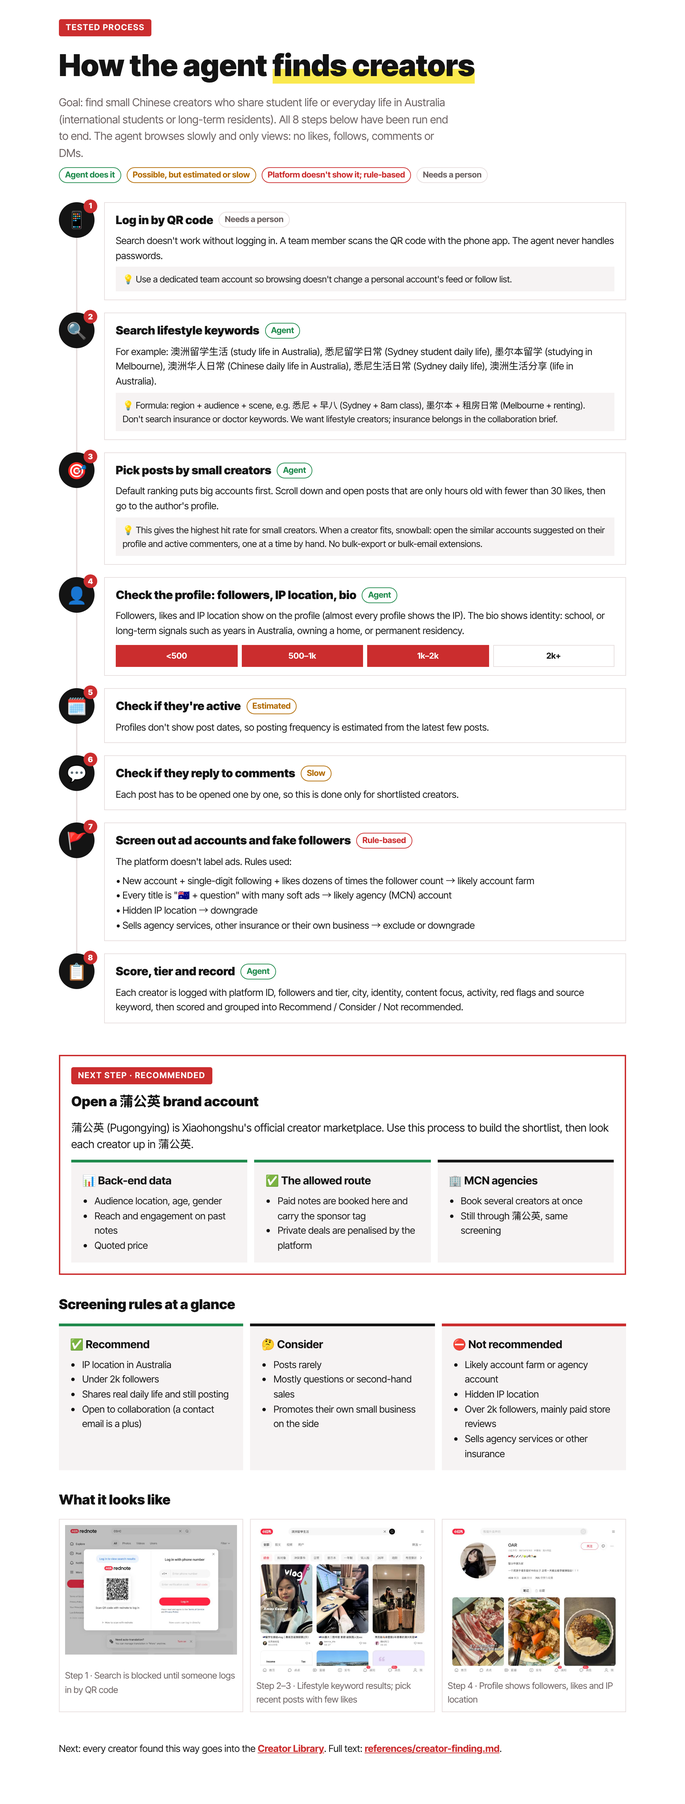
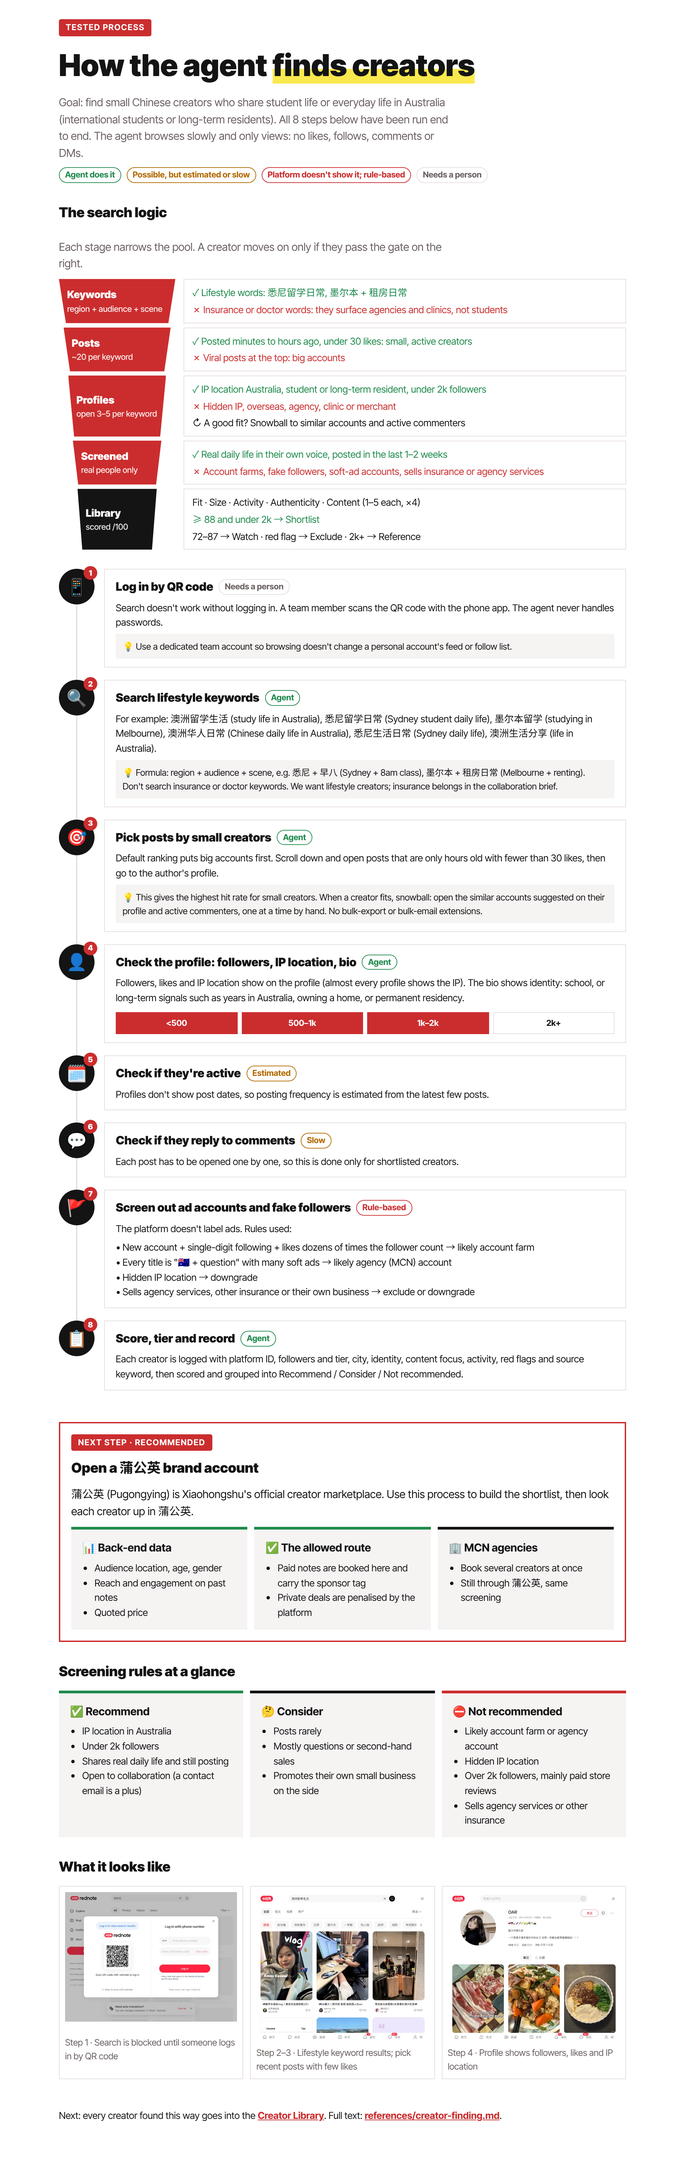
Creators: search-logic funnel, side-panel pages, plugin-root fix (#3)
* Creators: run the open-pages script from the plugin root (v1.6.1)

Installed as a plugin, the session's working folder is the user's, so
'python3 tools/creator_library.py --open' was not found. Use ${CLAUDE_PLUGIN_ROOT}.

Claude-Session: https://claude.ai/code/session_01DcvFVufSeSVvVkRLPy6cq9

* Creators: search-logic funnel; offer pages in the side panel instead of auto-opening (v1.7.0)

- process.html and creator-finding.md open with 'The search logic': Keywords -> Posts ->
  Profiles -> Screened -> Library, with what each gate keeps and drops
- cn-kol-manager answers with the logic first, then the steps
- No automatic external browser: the agent offers Method / Library / Both and shows the
  choice in the desktop app's side panel (creator_library.py --serve + preview_start);
  --pages prints paths; --open only when asked

Claude-Session: https://claude.ai/code/session_01DcvFVufSeSVvVkRLPy6cq9

---------

Changed region(s): [[0.062, 0.0, 0.899, 0.997]]

diff --git a/assets/creator-finding/process.html b/assets/creator-finding/process.html
@@ -23,6 +23,15 @@ header{display:grid;gap:8px}
 h1{font-size:clamp(28px,6vw,44px);font-weight:900;margin:0;text-wrap:balance}
 h1 mark{background:linear-gradient(transparent 60%,var(--yellow) 60%);color:inherit}
 .sub{color:var(--muted);margin:0;max-width:62ch}
+.logic{display:grid;gap:10px}
+.funnel{display:grid;gap:6px}
+.stage{display:grid;grid-template-columns:minmax(110px,170px) 1fr;gap:12px;align-items:stretch}
+.stage .bar{background:var(--red);color:#fff;font-weight:900;padding:10px 12px;display:grid;align-content:center;font-size:15px;clip-path:polygon(0 0,100% 0,94% 100%,6% 100%)}
+.stage:nth-child(2) .bar{margin-inline:4%}.stage:nth-child(3) .bar{margin-inline:8%}.stage:nth-child(4) .bar{margin-inline:12%}.stage:nth-child(5) .bar{margin-inline:16%;background:var(--ink);color:var(--bg)}
+.stage .bar small{display:block;font-weight:500;font-size:12px;opacity:.9}
+.gate{border:1px solid var(--line);padding:8px 12px;font-size:14px;display:grid;gap:3px;min-width:0}
+.gate .keep{color:var(--ok)}.gate .drop{color:var(--bad)}
+@media (max-width:560px){.stage{grid-template-columns:1fr}.stage .bar{margin-inline:0!important}}
 .legend{display:flex;flex-wrap:wrap;gap:8px;font-size:13px;color:var(--muted);align-items:center}
 .steps{list-style:none;margin:0;padding:0;display:grid;gap:0;counter-reset:s}
 .step{display:grid;grid-template-columns:52px 1fr;gap:14px;position:relative;padding-bottom:18px}
@@ -60,6 +69,18 @@ h2{font-size:20px;font-weight:900;margin:0 0 12px}
   <p class="sub">Goal: find small Chinese creators who share student life or everyday life in Australia (international students or long-term residents). All 8 steps below have been run end to end. The agent browses slowly and only views: no likes, follows, comments or DMs.</p>
   <div class="legend"><span class="pill p-ok">Agent does it</span><span class="pill p-warn">Possible, but estimated or slow</span><span class="pill p-bad">Platform doesn't show it; rule-based</span><span class="pill p-who">Needs a person</span></div>
 </header>
+
+<section class="logic">
+  <h2>The search logic</h2>
+  <p class="sub" style="margin:0">Each stage narrows the pool. A creator moves on only if they pass the gate on the right.</p>
+  <div class="funnel">
+    <div class="stage"><div class="bar">Keywords<small>region + audience + scene</small></div><div class="gate"><span class="keep">✓ Lifestyle words: 悉尼留学日常, 墨尔本 + 租房日常</span><span class="drop">✗ Insurance or doctor words: they surface agencies and clinics, not students</span></div></div>
+    <div class="stage"><div class="bar">Posts<small>~20 per keyword</small></div><div class="gate"><span class="keep">✓ Posted minutes to hours ago, under 30 likes: small, active creators</span><span class="drop">✗ Viral posts at the top: big accounts</span></div></div>
+    <div class="stage"><div class="bar">Profiles<small>open 3–5 per keyword</small></div><div class="gate"><span class="keep">✓ IP location Australia, student or long-term resident, under 2k followers</span><span class="drop">✗ Hidden IP, overseas, agency, clinic or merchant</span><span>↻ A good fit? Snowball to similar accounts and active commenters</span></div></div>
+    <div class="stage"><div class="bar">Screened<small>real people only</small></div><div class="gate"><span class="keep">✓ Real daily life in their own voice, posted in the last 1–2 weeks</span><span class="drop">✗ Account farms, fake followers, soft-ad accounts, sells insurance or agency services</span></div></div>
+    <div class="stage"><div class="bar">Library<small>scored /100</small></div><div class="gate"><span>Fit · Size · Activity · Authenticity · Content (1–5 each, ×4)</span><span class="keep">≥ 88 and under 2k → Shortlist</span><span>72–87 → Watch · red flag → Exclude · 2k+ → Reference</span></div></div>
+  </div>
+</section>
 
 <ol class="steps">
   <li class="step"><div class="num">📱<small>1</small></div><div class="body">

diff --git a/tools/creator_library.py b/tools/creator_library.py
@@ -12,7 +12,9 @@ Usage:
     python creator_library.py --check               # validate every row (CI)
     python creator_library.py --html                # rebuild creators/scouted/library.html
     python creator_library.py --next-id xiaohongshu # next free Library ID when adding a creator
-    python creator_library.py --open                # open the process page and the library in the browser
+    python creator_library.py --pages               # print both pages as file paths and side-panel URLs
+    python creator_library.py --serve               # serve the pages on http://localhost:8765 for the side panel
+    python creator_library.py --open                # open both pages in the default (external) browser
 """
 
 import argparse
@@ -224,6 +226,25 @@ then <code>python tools/creator_library.py --check --html</code>.</section>
 """
 
 
+PORT = 8765
+PAGES = {"method": "assets/creator-finding/process.html", "library": "creators/scouted/library.html"}
+
+
+def pages():
+    for name, rel in PAGES.items():
+        print(f"{name}: {ROOT / rel}  |  side panel: http://localhost:{PORT}/{rel}")
+
+
+def serve():
+    """Serve the repository root so the desktop app's side-panel browser can show the pages."""
+    import functools
+    import http.server
+    handler = functools.partial(http.server.SimpleHTTPRequestHandler, directory=str(ROOT))
+    with http.server.ThreadingHTTPServer(("127.0.0.1", PORT), handler) as httpd:
+        pages()
+        httpd.serve_forever()
+
+
 def open_pages():
     """Open the method page and the library page in the default browser; print their paths."""
     opened = False
@@ -244,8 +265,16 @@ def main(argv=None):
     p.add_argument("--check", action="store_true", help="validate every row; exit 1 on problems")
     p.add_argument("--html", action="store_true", help=f"rebuild {HTML_OUT.relative_to(ROOT)}")
     p.add_argument("--next-id", choices=list(PLATFORMS), help="print the next free Library ID")
-    p.add_argument("--open", action="store_true", help="open the process page and the library in the browser")
+    p.add_argument("--open", action="store_true", help="open both pages in the default (external) browser")
+    p.add_argument("--pages", action="store_true", help="print both pages as file paths and side-panel URLs")
+    p.add_argument("--serve", action="store_true", help=f"serve the pages on localhost:{PORT} for the side panel")
     args = p.parse_args(argv)
+    if args.pages:
+        pages()
+        return 0
+    if args.serve:
+        serve()
+        return 0
     if args.open:
         open_pages()
         return 0

diff --git a/.agents/skills/cn-kol-manager/SKILL.md b/.agents/skills/cn-kol-manager/SKILL.md
@@ -15,24 +15,39 @@ file for the platform in question.
 Any question about finding, choosing or recommending creators ("how can I find the right
 creators", "who should we work with", "找博主", "推荐博主", "博主库") starts here.
 
-**First, before writing anything, open the two visual pages:** run
-`python3 tools/creator_library.py --open`. It opens the method page
-(`assets/creator-finding/process.html`) and the creator library
-(`creators/scouted/library.html`) in the browser. If no browser opens, give the user the two
-paths it prints. Then answer in this order, short, in the user's language, pointing at the pages
-instead of repeating them:
+**Offer the two visual pages, don't force them open.** Start the answer with a short choice:
+"I can show this in the side panel: 1 Method (the search logic and 8 steps) · 2 Creator library
+· 3 Both". When the user picks:
+- **Side panel (preferred):** if built-in browser tools are available (`preview_start`, from the
+  Claude desktop app), run `python3 "${CLAUDE_PLUGIN_ROOT:-.}/tools/creator_library.py" --serve`
+  in the background and open the chosen URL(s) it prints
+  (`http://localhost:8765/assets/creator-finding/process.html`,
+  `http://localhost:8765/creators/scouted/library.html`) with `preview_start`.
+- **No side panel:** give the file paths from `creator_library.py --pages` as links the user can
+  click, and offer `--open` to open them in their own browser. Never open the external browser
+  without being asked.
+(`${CLAUDE_PLUGIN_ROOT}` is the agent's root folder, not the user's current folder; if it is
+empty, `cd` to the folder that holds this repository's `SKILL.md` first.)
 
+Then answer in this order, short, in the user's language (point at a page when it is open
+instead of repeating it):
+
+0. **The search logic first**, in one short block: Keywords (lifestyle) → Posts (new, under
+   30 likes) → Profiles (IP Australia, student or resident, under 2k) → Screened (real people,
+   no farm or ad signals) → Library (scored /100 → Shortlist / Watch / Exclude / Reference).
+   Say what each gate keeps and drops (table "The search logic" in
+   `references/creator-finding.md`; it is also the top of the method page).
 1. **The method.** Say it has been field-tested and give the 8 steps from
    `references/creator-finding.md`. Lead with step 1: **a real person logs in by QR code on a
    real Xiaohongshu account** (search does not work without it; the agent never types a
    password). Point to the visual: `assets/creator-finding/process.html` (8-step flow with
-   screenshots), already open.
+   screenshots).
 2. **The knowledge base.** Every creator found this way is stored in the creator library,
    `creators/scouted/` (one CSV per platform, rules in `creators/scouted/README.md`). Say
    **Xiaohongshu is the main platform**, because it is where Chinese students search and trust
    peers most (`references/student-strategy.md`; 小红书 40% of the channel mix). Run
    `python tools/creator_library.py` and say how many creators are built in, by status.
-   The library page is already open (platform → status → shortlist with scores and IDs).
+   Library page: platform → status → shortlist with scores and IDs.
 3. **The recommendations.** Show the Shortlist (`python tools/creator_library.py --status
    Shortlist`): nickname, Library ID, Xiaohongshu ID, followers and tier, city, score, one line
    on why. Add "follower counts were recorded at scan time; check again before contacting".

diff --git a/.claude/skills/cn-kol-manager/SKILL.md b/.claude/skills/cn-kol-manager/SKILL.md
@@ -15,24 +15,39 @@ file for the platform in question.
 Any question about finding, choosing or recommending creators ("how can I find the right
 creators", "who should we work with", "找博主", "推荐博主", "博主库") starts here.
 
-**First, before writing anything, open the two visual pages:** run
-`python3 tools/creator_library.py --open`. It opens the method page
-(`assets/creator-finding/process.html`) and the creator library
-(`creators/scouted/library.html`) in the browser. If no browser opens, give the user the two
-paths it prints. Then answer in this order, short, in the user's language, pointing at the pages
-instead of repeating them:
+**Offer the two visual pages, don't force them open.** Start the answer with a short choice:
+"I can show this in the side panel: 1 Method (the search logic and 8 steps) · 2 Creator library
+· 3 Both". When the user picks:
+- **Side panel (preferred):** if built-in browser tools are available (`preview_start`, from the
+  Claude desktop app), run `python3 "${CLAUDE_PLUGIN_ROOT:-.}/tools/creator_library.py" --serve`
+  in the background and open the chosen URL(s) it prints
+  (`http://localhost:8765/assets/creator-finding/process.html`,
+  `http://localhost:8765/creators/scouted/library.html`) with `preview_start`.
+- **No side panel:** give the file paths from `creator_library.py --pages` as links the user can
+  click, and offer `--open` to open them in their own browser. Never open the external browser
+  without being asked.
+(`${CLAUDE_PLUGIN_ROOT}` is the agent's root folder, not the user's current folder; if it is
+empty, `cd` to the folder that holds this repository's `SKILL.md` first.)
 
+Then answer in this order, short, in the user's language (point at a page when it is open
+instead of repeating it):
+
+0. **The search logic first**, in one short block: Keywords (lifestyle) → Posts (new, under
+   30 likes) → Profiles (IP Australia, student or resident, under 2k) → Screened (real people,
+   no farm or ad signals) → Library (scored /100 → Shortlist / Watch / Exclude / Reference).
+   Say what each gate keeps and drops (table "The search logic" in
+   `references/creator-finding.md`; it is also the top of the method page).
 1. **The method.** Say it has been field-tested and give the 8 steps from
    `references/creator-finding.md`. Lead with step 1: **a real person logs in by QR code on a
    real Xiaohongshu account** (search does not work without it; the agent never types a
    password). Point to the visual: `assets/creator-finding/process.html` (8-step flow with
-   screenshots), already open.
+   screenshots).
 2. **The knowledge base.** Every creator found this way is stored in the creator library,
    `creators/scouted/` (one CSV per platform, rules in `creators/scouted/README.md`). Say
    **Xiaohongshu is the main platform**, because it is where Chinese students search and trust
    peers most (`references/student-strategy.md`; 小红书 40% of the channel mix). Run
    `python tools/creator_library.py` and say how many creators are built in, by status.
-   The library page is already open (platform → status → shortlist with scores and IDs).
+   Library page: platform → status → shortlist with scores and IDs.
 3. **The recommendations.** Show the Shortlist (`python tools/creator_library.py --status
    Shortlist`): nickname, Library ID, Xiaohongshu ID, followers and tier, city, score, one line
    on why. Add "follower counts were recorded at scan time; check again before contacting".

diff --git a/skills/cn-kol-manager/SKILL.md b/skills/cn-kol-manager/SKILL.md
@@ -15,24 +15,39 @@ file for the platform in question.
 Any question about finding, choosing or recommending creators ("how can I find the right
 creators", "who should we work with", "找博主", "推荐博主", "博主库") starts here.
 
-**First, before writing anything, open the two visual pages:** run
-`python3 tools/creator_library.py --open`. It opens the method page
-(`assets/creator-finding/process.html`) and the creator library
-(`creators/scouted/library.html`) in the browser. If no browser opens, give the user the two
-paths it prints. Then answer in this order, short, in the user's language, pointing at the pages
-instead of repeating them:
+**Offer the two visual pages, don't force them open.** Start the answer with a short choice:
+"I can show this in the side panel: 1 Method (the search logic and 8 steps) · 2 Creator library
+· 3 Both". When the user picks:
+- **Side panel (preferred):** if built-in browser tools are available (`preview_start`, from the
+  Claude desktop app), run `python3 "${CLAUDE_PLUGIN_ROOT:-.}/tools/creator_library.py" --serve`
+  in the background and open the chosen URL(s) it prints
+  (`http://localhost:8765/assets/creator-finding/process.html`,
+  `http://localhost:8765/creators/scouted/library.html`) with `preview_start`.
+- **No side panel:** give the file paths from `creator_library.py --pages` as links the user can
+  click, and offer `--open` to open them in their own browser. Never open the external browser
+  without being asked.
+(`${CLAUDE_PLUGIN_ROOT}` is the agent's root folder, not the user's current folder; if it is
+empty, `cd` to the folder that holds this repository's `SKILL.md` first.)
 
+Then answer in this order, short, in the user's language (point at a page when it is open
+instead of repeating it):
+
+0. **The search logic first**, in one short block: Keywords (lifestyle) → Posts (new, under
+   30 likes) → Profiles (IP Australia, student or resident, under 2k) → Screened (real people,
+   no farm or ad signals) → Library (scored /100 → Shortlist / Watch / Exclude / Reference).
+   Say what each gate keeps and drops (table "The search logic" in
+   `references/creator-finding.md`; it is also the top of the method page).
 1. **The method.** Say it has been field-tested and give the 8 steps from
    `references/creator-finding.md`. Lead with step 1: **a real person logs in by QR code on a
    real Xiaohongshu account** (search does not work without it; the agent never types a
    password). Point to the visual: `assets/creator-finding/process.html` (8-step flow with
-   screenshots), already open.
+   screenshots).
 2. **The knowledge base.** Every creator found this way is stored in the creator library,
    `creators/scouted/` (one CSV per platform, rules in `creators/scouted/README.md`). Say
    **Xiaohongshu is the main platform**, because it is where Chinese students search and trust
    peers most (`references/student-strategy.md`; 小红书 40% of the channel mix). Run
    `python tools/creator_library.py` and say how many creators are built in, by status.
-   The library page is already open (platform → status → shortlist with scores and IDs).
+   Library page: platform → status → shortlist with scores and IDs.
 3. **The recommendations.** Show the Shortlist (`python tools/creator_library.py --status
    Shortlist`): nickname, Library ID, Xiaohongshu ID, followers and tier, city, score, one line
    on why. Add "follower counts were recorded at scan time; check again before contacting".

diff --git a/references/creator-finding.md b/references/creator-finding.md
@@ -2,6 +2,31 @@
 
 > This process has been field-tested. It works for any region and any topic.
 
+## The search logic
+
+Each stage narrows the pool; a creator moves on only by passing its gate.
+
+```mermaid
+flowchart LR
+  A["Keywords<br/>region + audience + scene"] --> B["Posts<br/>~20 per keyword"]
+  B -->|"new post, under 30 likes"| C["Profiles<br/>3–5 per keyword"]
+  C -->|"IP Australia, student or resident, under 2k"| D["Screened<br/>real people only"]
+  C -.->|"good fit: snowball"| C
+  D -->|"no farm, fake or ad signals"| E["Library<br/>scored /100"]
+  E --> F["Shortlist ≥ 88"]
+  E --> G["Watch 72–87"]
+  E --> H["Exclude: red flag"]
+  E --> I["Reference: 2k+"]
+```
+
+| Stage | Keep | Drop |
+|---|---|---|
+| Keywords | Lifestyle words (悉尼留学日常, 墨尔本 + 租房日常) | Insurance or doctor words (surface agencies and clinics) |
+| Posts | Posted minutes–hours ago, under 30 likes | Viral posts from big accounts |
+| Profiles | IP location Australia, student or long-term resident, under 2k followers | Hidden IP, overseas, agency, clinic, merchant |
+| Screened | Real daily life in their own voice, active in the last 1–2 weeks | Account farms, fake followers, soft-ad accounts, sells insurance or agency services |
+| Library | Score /100 sets the status | |
+
 ## Step 1: Log in by scanning the QR code
 
 - Open **www.xiaohongshu.com** in the agent's browser.

diff --git a/.agents/skills/medibank-cn-social/SKILL.md b/.agents/skills/medibank-cn-social/SKILL.md
@@ -52,7 +52,7 @@ All paths in this skill and its sub-skills are **relative to the agent's root fo
 | Cut a short video from the user's footage: trim, join, vertical, subtitles, Medibank colours, title/end cards | `skills/cn-video-editor/SKILL.md` |
 | The same content adapted for other platforms | `skills/cn-repurpose/SKILL.md` |
 | A content calendar, campaign plan, channel mix, "怎么吸引学生" | `skills/cn-content-planner/SKILL.md` |
-| "How do we find (the right) creators?", "any creators you recommend?", the scouted creator library (博主库): open the pages with `python3 tools/creator_library.py --open` first; find, score, vet, brief or manage creators; review a creator draft; roster and dashboard (达人库/看板) | `skills/cn-kol-manager/SKILL.md` |
+| "How do we find (the right) creators?", "any creators you recommend?", the scouted creator library (博主库): offer the method and library pages in the side panel first; find, score, vet, brief or manage creators; review a creator draft; roster and dashboard (达人库/看板) | `skills/cn-kol-manager/SKILL.md` |
 | "能不能发", check any draft, caption or image text | `skills/cn-compliance-review/SKILL.md` |
 | Replies to comments, DMs, 公众号留言, live chat; negative posts; 舆情 | `skills/cn-community-manager/SKILL.md` |
 | A weekly/monthly report from exported data | `skills/cn-performance-review/SKILL.md` |

diff --git a/.claude/skills/medibank-cn-social/SKILL.md b/.claude/skills/medibank-cn-social/SKILL.md
@@ -52,7 +52,7 @@ All paths in this skill and its sub-skills are **relative to the agent's root fo
 | Cut a short video from the user's footage: trim, join, vertical, subtitles, Medibank colours, title/end cards | `skills/cn-video-editor/SKILL.md` |
 | The same content adapted for other platforms | `skills/cn-repurpose/SKILL.md` |
 | A content calendar, campaign plan, channel mix, "怎么吸引学生" | `skills/cn-content-planner/SKILL.md` |
-| "How do we find (the right) creators?", "any creators you recommend?", the scouted creator library (博主库): open the pages with `python3 tools/creator_library.py --open` first; find, score, vet, brief or manage creators; review a creator draft; roster and dashboard (达人库/看板) | `skills/cn-kol-manager/SKILL.md` |
+| "How do we find (the right) creators?", "any creators you recommend?", the scouted creator library (博主库): offer the method and library pages in the side panel first; find, score, vet, brief or manage creators; review a creator draft; roster and dashboard (达人库/看板) | `skills/cn-kol-manager/SKILL.md` |
 | "能不能发", check any draft, caption or image text | `skills/cn-compliance-review/SKILL.md` |
 | Replies to comments, DMs, 公众号留言, live chat; negative posts; 舆情 | `skills/cn-community-manager/SKILL.md` |
 | A weekly/monthly report from exported data | `skills/cn-performance-review/SKILL.md` |

diff --git a/SKILL.md b/SKILL.md
@@ -52,7 +52,7 @@ All paths in this skill and its sub-skills are **relative to the agent's root fo
 | Cut a short video from the user's footage: trim, join, vertical, subtitles, Medibank colours, title/end cards | `skills/cn-video-editor/SKILL.md` |
 | The same content adapted for other platforms | `skills/cn-repurpose/SKILL.md` |
 | A content calendar, campaign plan, channel mix, "怎么吸引学生" | `skills/cn-content-planner/SKILL.md` |
-| "How do we find (the right) creators?", "any creators you recommend?", the scouted creator library (博主库): open the pages with `python3 tools/creator_library.py --open` first; find, score, vet, brief or manage creators; review a creator draft; roster and dashboard (达人库/看板) | `skills/cn-kol-manager/SKILL.md` |
+| "How do we find (the right) creators?", "any creators you recommend?", the scouted creator library (博主库): offer the method and library pages in the side panel first; find, score, vet, brief or manage creators; review a creator draft; roster and dashboard (达人库/看板) | `skills/cn-kol-manager/SKILL.md` |
 | "能不能发", check any draft, caption or image text | `skills/cn-compliance-review/SKILL.md` |
 | Replies to comments, DMs, 公众号留言, live chat; negative posts; 舆情 | `skills/cn-community-manager/SKILL.md` |
 | A weekly/monthly report from exported data | `skills/cn-performance-review/SKILL.md` |

diff --git a/AGENTS.md b/AGENTS.md
@@ -25,7 +25,7 @@ it does not sell (no prices, comparisons, purchase links, "DM to buy", or data c
 | `python tools/calendar_builder.py <csv>` | Check and render a content calendar |
 | `python tools/performance_report.py <csv>` | Cross-platform performance report |
 | `python tools/trend_score.py <csv>` | Score trends: use now / adapt / watch / avoid |
-| `python tools/creator_library.py` | Scouted creator library (`creators/scouted/`): summary, `--open` (method + library pages in the browser), `--status Shortlist`, `--check`, `--html`, `--next-id xiaohongshu` |
+| `python tools/creator_library.py` | Scouted creator library (`creators/scouted/`): summary, `--pages` / `--serve` (method + library pages for the side panel), `--open` (external browser), `--status Shortlist`, `--check`, `--html`, `--next-id xiaohongshu` |
 | `python tools/creator_dashboard.py` | Signed-creator dashboard from `creators/roster.csv` and `posts.csv` |
 | `python tools/make_post.py <spec.json>` | Finished post: text, image cards (needs Pillow) and compliance report in `outputs/posts/` |
 | `python tools/video_edit.py <plan.json>` | Edited vertical video in Medibank colours (needs ffmpeg); `--dry-run`, `--probe FILE` |
